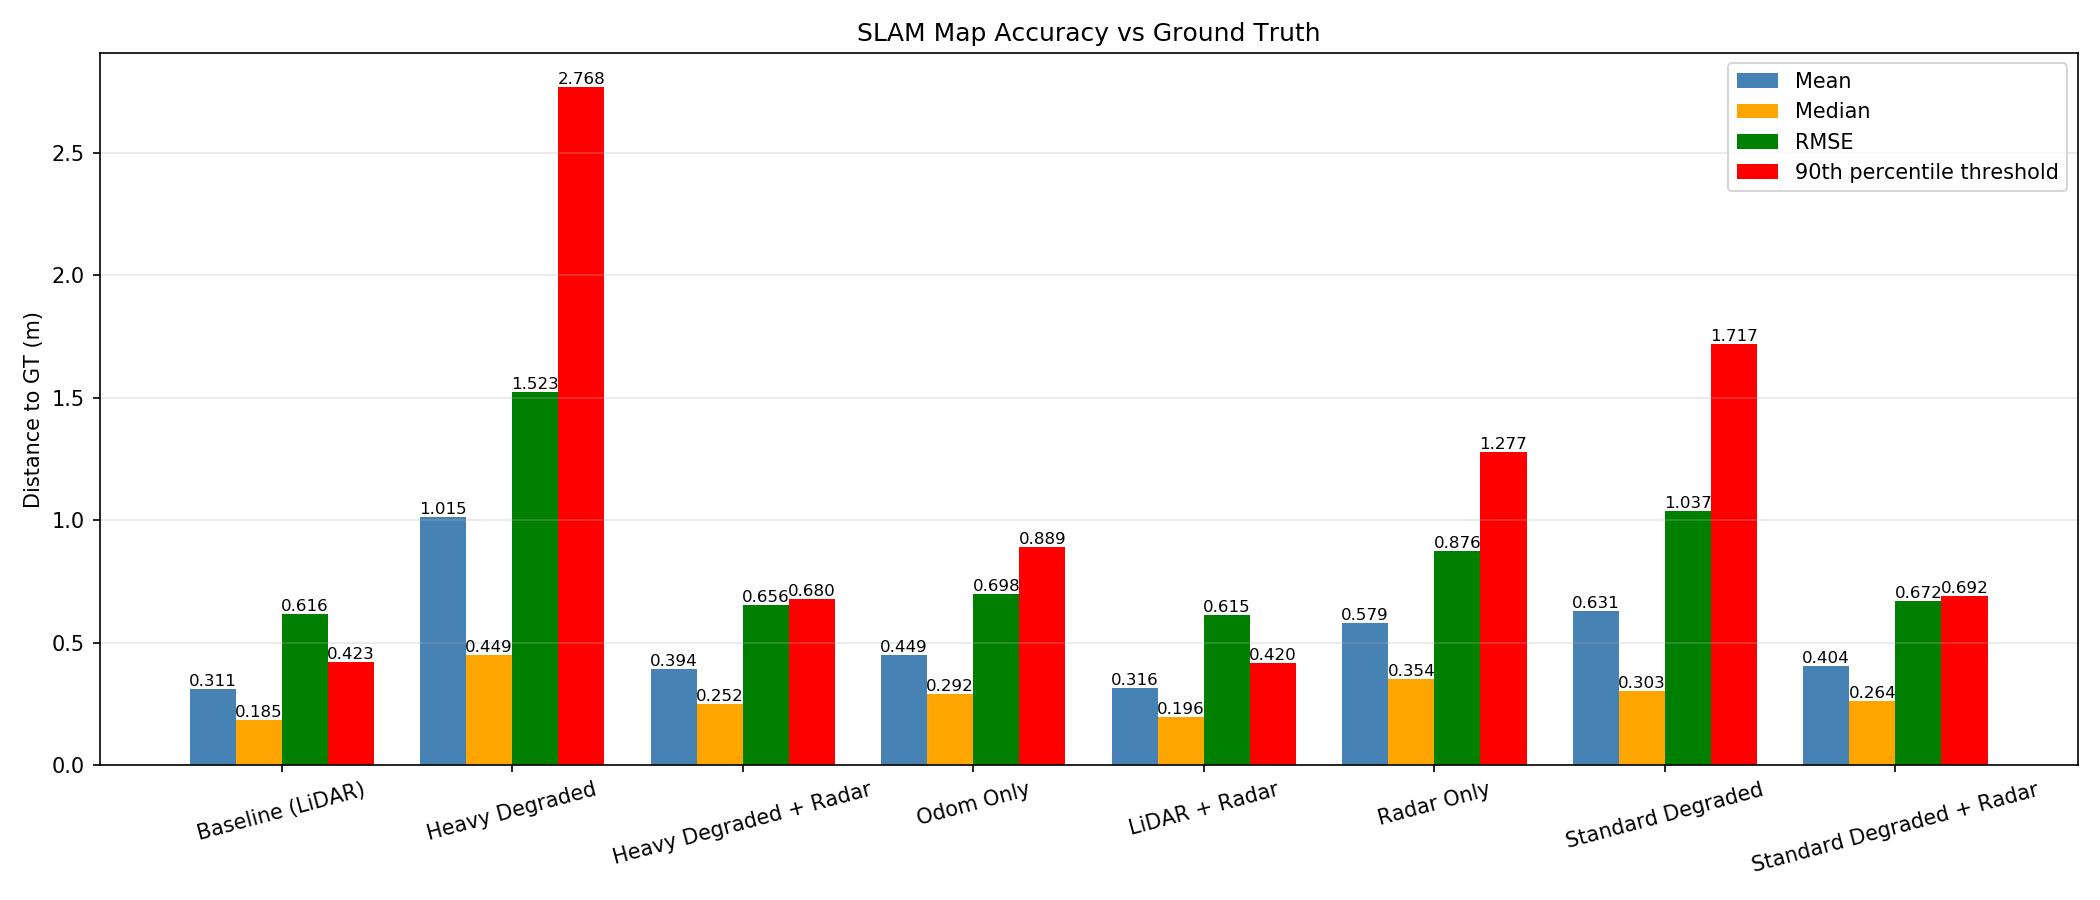
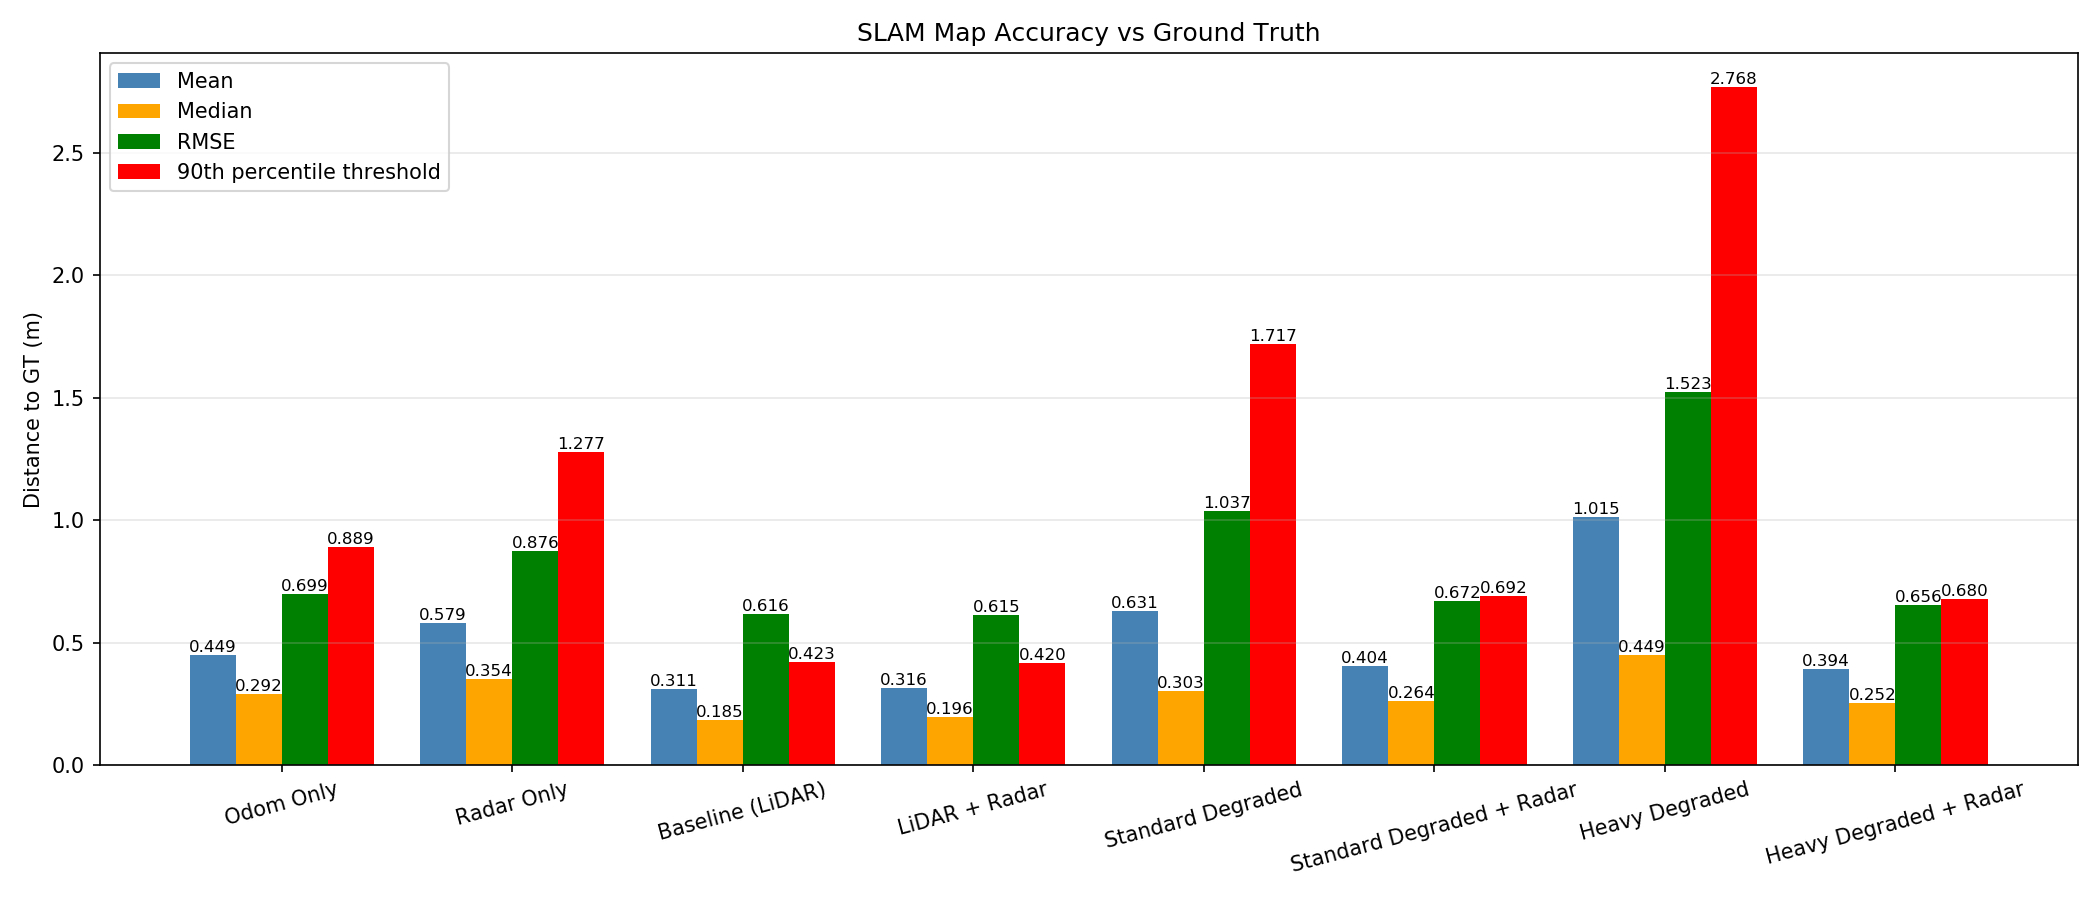
changed order in comparison plot and readme

diff --git a/compare.py b/compare.py
@@ -295,7 +295,11 @@ def plot_fitness(slam_dir, modes):
 def plot_gt_comparison(slam_dir, gt_results):
     if not gt_results:
         return
-    modes = list(gt_results.keys())
+    mode_order = ['odom_only', 'radar_only', 'baseline', 'radar',
+                  'standard_degraded', 'standard_degraded_radar',
+                  'heavy_degraded', 'heavy_degraded_radar']
+    modes = [m for m in mode_order if m in gt_results]
+    modes += [m for m in gt_results if m not in mode_order]
     fig, ax = plt.subplots(figsize=(14, 6))
     x = np.arange(len(modes))
     width = 0.2

diff --git a/README.md b/README.md
@@ -17,14 +17,24 @@ python slam.py --bag <path_to_bag> [--mode MODE] [--output DIR]
 - `--output`: Output directory (default: slam_output)
 
 **Modes:**
-- `baseline`: LiDAR + odometry (reference)
-- `standard_degraded`: LiDAR with mild fog/dust simulation + odometry
-- `heavy_degraded`: LiDAR with heavy fog/dust simulation + odometry
-- `radar`: LiDAR + radar fusion (30% radar weight)
-- `standard_degraded_radar`: Standard degraded + radar (70% radar weight)
-- `heavy_degraded_radar`: Heavy degraded + radar (90% radar weight)
-- `radar_only`: Radar-only pose estimation with LiDAR mapping
-- `odom_only`: Pure odometry (no SLAM correction)
+
+*LiDAR + odom SLAM (LiDAR scan matching against a LiDAR submap, initialized with odom):*
+- `baseline`: Clean LiDAR (reference)
+- `standard_degraded`: LiDAR with mild fog/dust simulation
+- `heavy_degraded`: LiDAR with heavy fog/dust simulation
+
+*LiDAR + radar + odom SLAM (LiDAR ICP and radar ICP fused, initialized with odom):*
+- `radar`: Clean LiDAR + radar (30% radar weight)
+- `standard_degraded_radar`: Standard degraded LiDAR + radar (70% radar weight)
+- `heavy_degraded_radar`: Heavy degraded LiDAR + radar (90% radar weight)
+
+*Radar + odom SLAM (radar ICP only for pose, initialized with odom):*
+- `radar_only`: Radar-only pose estimation
+
+*No SLAM:*
+- `odom_only`: Pure odometry (no ICP correction)
+
+> **Note:** In all modes, the global map is built using the **original undegraded LiDAR scans** at the SLAM-estimated poses. This ensures all modes produce 3D maps that can be directly compared against ground truth — the degradation only affects pose estimation, not the map itself.
 
 **Examples:**
 ```bash